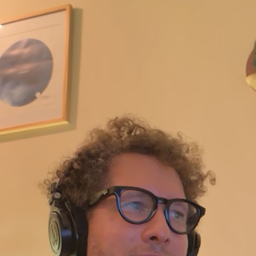
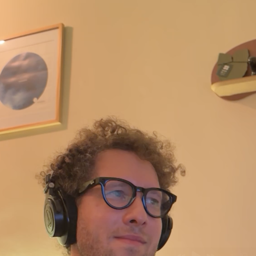
feat(home-hero): trim role to Google+Former(Amazon,Nubank), 3 badges in one row, Newsletter+socials inline
Per user request before sleep:

Role badge
- Trimmed from 7 companies to 3: Google (current) + Former (Amazon, Nubank).
- Removed GetYourGuide, QEdu, F. Lemann, Rocket.
- No longer needs flex-basis:100% — place + role + passions now share one row.

Badge layout
- Removed .pm-badge-wrap class entirely; all badges are inline nowrap.
- Gap reduced 10→8 for tighter row, font 13→12.5, padding stays 6x12.

CTAs row
- Dropped "Sobre mim →" secondary CTA; only Newsletter remains.
- Newsletter CTA + socials row now share the same line (was two stacked).

Socials
- 4 icons: LinkedIn, Instagram (personal), X, Instagram (@blankframe.art).
- 3 personal socials: icon-only (title tooltip + aria-label for the handle).
- Blank Frame keeps the handle text visible as it is a distinct identity.
- Icons bumped 15→17px to match the inline-with-CTA sizing.

Avatar
- Re-cropped: 1300x1300 at +450+50 offset (was 1100x1100 at +465+150).
  Zoom out + shift up so the full head is visible inside the 104px avatar
  circle instead of cropping the top of the hair.

diff --git a/layouts/partials/home-hero.html b/layouts/partials/home-hero.html
@@ -1,9 +1,8 @@
 {{- /*
-  layouts/partials/home-hero.html — Home hero block (avatar + bio + badges + CTAs + socials).
+  layouts/partials/home-hero.html — Home hero block.
+  Layout: avatar + bio + 3-in-a-row badges (place, role, passions) + CTA + socials.
   i18n-driven: all user-facing text lives in i18n/*.yaml.
-  Links honour per-language slugs via GetPage.
 */ -}}
-{{- $about := site.GetPage "/about" -}}
 <section class="pm-home-info" aria-labelledby="home-hero-bio">
   <img class="photo-avatar" src="/images/profile/avatar.png"
        alt="{{ i18n "hero_avatar_alt" }}" width="104" height="104" loading="eager" decoding="async">
@@ -11,32 +10,26 @@
     <p id="home-hero-bio">{{ i18n "hero_bio" }}</p>
     <div class="pm-badges" aria-hidden="true">
       <span class="pm-badge">{{ i18n "hero_badge_place" }}</span>
-      <span class="pm-badge pm-badge-wrap">{{ i18n "hero_badge_role" | safeHTML }}</span>
+      <span class="pm-badge">{{ i18n "hero_badge_role" | safeHTML }}</span>
       <span class="pm-badge">{{ i18n "hero_badge_passions" }}</span>
     </div>
     <div class="pm-ctas">
-      {{- with $about }}
-      <a class="pm-cta pm-cta-primary" href="{{ .RelPermalink }}">{{ i18n "hero_cta_about" }}</a>
-      {{- end }}
-      <a class="pm-cta pm-cta-secondary" href="https://marcelioleal.substack.com/" rel="me noopener">{{ i18n "hero_cta_newsletter" }}</a>
-    </div>
-    <div class="pm-socials" aria-label="Social links">
-      <a class="pm-social" href="https://www.linkedin.com/in/marcelioleal/" rel="me noopener" target="_blank" title="LinkedIn — @marcelioleal">
-        <svg viewBox="0 0 24 24" fill="currentColor" aria-hidden="true"><path d="M20.5 2h-17A1.5 1.5 0 002 3.5v17A1.5 1.5 0 003.5 22h17a1.5 1.5 0 001.5-1.5v-17A1.5 1.5 0 0020.5 2zM8 19H5v-9h3zM6.5 8.25A1.75 1.75 0 118.3 6.5a1.78 1.78 0 01-1.8 1.75zM19 19h-3v-4.74c0-1.42-.6-1.93-1.38-1.93A1.74 1.74 0 0013 14.19a.66.66 0 000 .14V19h-3v-9h2.9v1.3a3.11 3.11 0 012.7-1.4c1.55 0 3.36.86 3.36 3.66z"/></svg>
-        <span>marcelioleal</span>
-      </a>
-      <a class="pm-social" href="https://www.instagram.com/marcelioleal" rel="me noopener" target="_blank" title="Instagram — @marcelioleal">
-        <svg viewBox="0 0 24 24" fill="none" stroke="currentColor" stroke-width="2" stroke-linecap="round" stroke-linejoin="round" aria-hidden="true"><rect x="2" y="2" width="20" height="20" rx="5"/><path d="M16 11.37A4 4 0 1 1 12.63 8 4 4 0 0 1 16 11.37z"/><line x1="17.5" y1="6.5" x2="17.51" y2="6.5"/></svg>
-        <span>marcelioleal</span>
-      </a>
-      <a class="pm-social" href="https://x.com/marcelioleal" rel="me noopener" target="_blank" title="X — @marcelioleal">
-        <svg viewBox="0 0 24 24" fill="currentColor" aria-hidden="true"><path d="M18.244 2.25h3.308l-7.227 8.26 8.502 11.24H16.17l-5.214-6.817L4.99 21.75H1.68l7.73-8.835L1.254 2.25H8.08l4.713 6.231zm-1.161 17.52h1.833L7.084 4.126H5.117z"/></svg>
-        <span>marcelioleal</span>
-      </a>
-      <a class="pm-social" href="https://www.instagram.com/blankframe.art" rel="noopener" target="_blank" title="Instagram — @blankframe.art">
-        <svg viewBox="0 0 24 24" fill="none" stroke="currentColor" stroke-width="2" stroke-linecap="round" stroke-linejoin="round" aria-hidden="true"><rect x="2" y="2" width="20" height="20" rx="5"/><path d="M16 11.37A4 4 0 1 1 12.63 8 4 4 0 0 1 16 11.37z"/><line x1="17.5" y1="6.5" x2="17.51" y2="6.5"/></svg>
-        <span>blankframe.art</span>
-      </a>
+      <a class="pm-cta pm-cta-primary" href="https://marcelioleal.substack.com/" rel="me noopener noreferrer" target="_blank">{{ i18n "hero_cta_newsletter" }}</a>
+      <div class="pm-socials" aria-label="Social links">
+        <a class="pm-social pm-social-icon" href="https://www.linkedin.com/in/marcelioleal/" rel="me noopener noreferrer" target="_blank" title="LinkedIn — @marcelioleal" aria-label="LinkedIn">
+          <svg viewBox="0 0 24 24" fill="currentColor" aria-hidden="true"><path d="M20.5 2h-17A1.5 1.5 0 002 3.5v17A1.5 1.5 0 003.5 22h17a1.5 1.5 0 001.5-1.5v-17A1.5 1.5 0 0020.5 2zM8 19H5v-9h3zM6.5 8.25A1.75 1.75 0 118.3 6.5a1.78 1.78 0 01-1.8 1.75zM19 19h-3v-4.74c0-1.42-.6-1.93-1.38-1.93A1.74 1.74 0 0013 14.19a.66.66 0 000 .14V19h-3v-9h2.9v1.3a3.11 3.11 0 012.7-1.4c1.55 0 3.36.86 3.36 3.66z"/></svg>
+        </a>
+        <a class="pm-social pm-social-icon" href="https://www.instagram.com/marcelioleal" rel="me noopener noreferrer" target="_blank" title="Instagram — @marcelioleal" aria-label="Instagram">
+          <svg viewBox="0 0 24 24" fill="none" stroke="currentColor" stroke-width="2" stroke-linecap="round" stroke-linejoin="round" aria-hidden="true"><rect x="2" y="2" width="20" height="20" rx="5"/><path d="M16 11.37A4 4 0 1 1 12.63 8 4 4 0 0 1 16 11.37z"/><line x1="17.5" y1="6.5" x2="17.51" y2="6.5"/></svg>
+        </a>
+        <a class="pm-social pm-social-icon" href="https://x.com/marcelioleal" rel="me noopener noreferrer" target="_blank" title="X — @marcelioleal" aria-label="X">
+          <svg viewBox="0 0 24 24" fill="currentColor" aria-hidden="true"><path d="M18.244 2.25h3.308l-7.227 8.26 8.502 11.24H16.17l-5.214-6.817L4.99 21.75H1.68l7.73-8.835L1.254 2.25H8.08l4.713 6.231zm-1.161 17.52h1.833L7.084 4.126H5.117z"/></svg>
+        </a>
+        <a class="pm-social" href="https://www.instagram.com/blankframe.art" rel="noopener noreferrer" target="_blank" title="Instagram — @blankframe.art" aria-label="Instagram @blankframe.art">
+          <svg viewBox="0 0 24 24" fill="none" stroke="currentColor" stroke-width="2" stroke-linecap="round" stroke-linejoin="round" aria-hidden="true"><rect x="2" y="2" width="20" height="20" rx="5"/><path d="M16 11.37A4 4 0 1 1 12.63 8 4 4 0 0 1 16 11.37z"/><line x1="17.5" y1="6.5" x2="17.51" y2="6.5"/></svg>
+          <span>blankframe.art</span>
+        </a>
+      </div>
     </div>
   </div>
 </section>

diff --git a/assets/css/extended/custom.css b/assets/css/extended/custom.css
@@ -325,7 +325,7 @@ input:focus-visible,
   color: var(--content);
 }
 
-.pm-badges { display: flex; flex-wrap: wrap; gap: 10px; margin: 14px 0; }
+.pm-badges { display: flex; flex-wrap: wrap; gap: 8px; margin: 14px 0; }
 .pm-badge {
   display: inline-flex;
   align-items: center;
@@ -333,17 +333,13 @@ input:focus-visible,
   border: 1px solid var(--tag-border);
   border-radius: 8px;
   font-family: var(--font-mono);
-  font-size: 13px;
+  font-size: 12.5px;
   font-weight: 400;
   color: var(--tag-text);
   background: var(--tag-bg);
   letter-spacing: -0.005em;
-  line-height: 1.5;
-}
-.pm-badge-wrap {
-  flex-basis: 100%;
-  white-space: normal;
-  align-items: flex-start;
+  line-height: 1.4;
+  white-space: nowrap;
 }
 .pm-badge a {
   color: var(--tag-text);
@@ -355,7 +351,13 @@ input:focus-visible,
   border-bottom-color: var(--accent);
 }
 
-.pm-ctas { display: flex; gap: 10px; flex-wrap: wrap; }
+/* -- CTAs + socials row (same line) -------------------------------------- */
+.pm-ctas {
+  display: flex;
+  gap: 16px;
+  flex-wrap: wrap;
+  align-items: center;
+}
 .pm-cta {
   display: inline-block;
   padding: 7px 14px;
@@ -375,20 +377,11 @@ input:focus-visible,
   border-color: var(--accent-hover);
   color: #fff;
 }
-.pm-cta-secondary { color: var(--primary); }
-.pm-cta-secondary:hover {
-  border-color: var(--accent);
-  color: var(--accent);
-}
 
-/* -- Socials row (below CTAs) -------------------------------------------- */
 .pm-socials {
-  display: flex;
-  flex-wrap: wrap;
-  gap: 16px;
-  margin-top: 16px;
-  padding-top: 14px;
-  border-top: 1px solid var(--border);
+  display: inline-flex;
+  align-items: center;
+  gap: 14px;
 }
 .pm-social {
   display: inline-flex;
@@ -400,12 +393,13 @@ input:focus-visible,
   transition: color 0.15s;
 }
 .pm-social svg {
-  width: 15px;
-  height: 15px;
+  width: 17px;
+  height: 17px;
   flex-shrink: 0;
 }
 .pm-social:hover { color: var(--accent); }
 .pm-social span { letter-spacing: -0.005em; }
+.pm-social-icon { padding: 2px; }
 
 /* -- Two-column layout --------------------------------------------------- */
 .two-col-layout {
